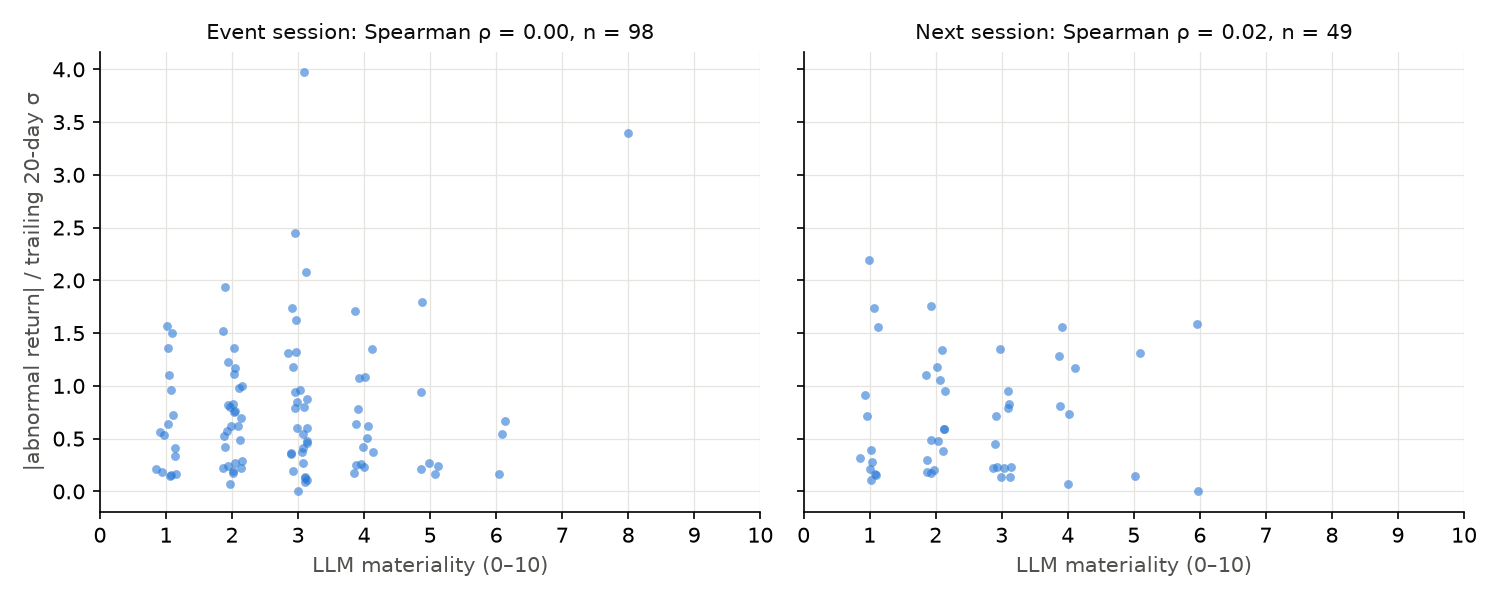
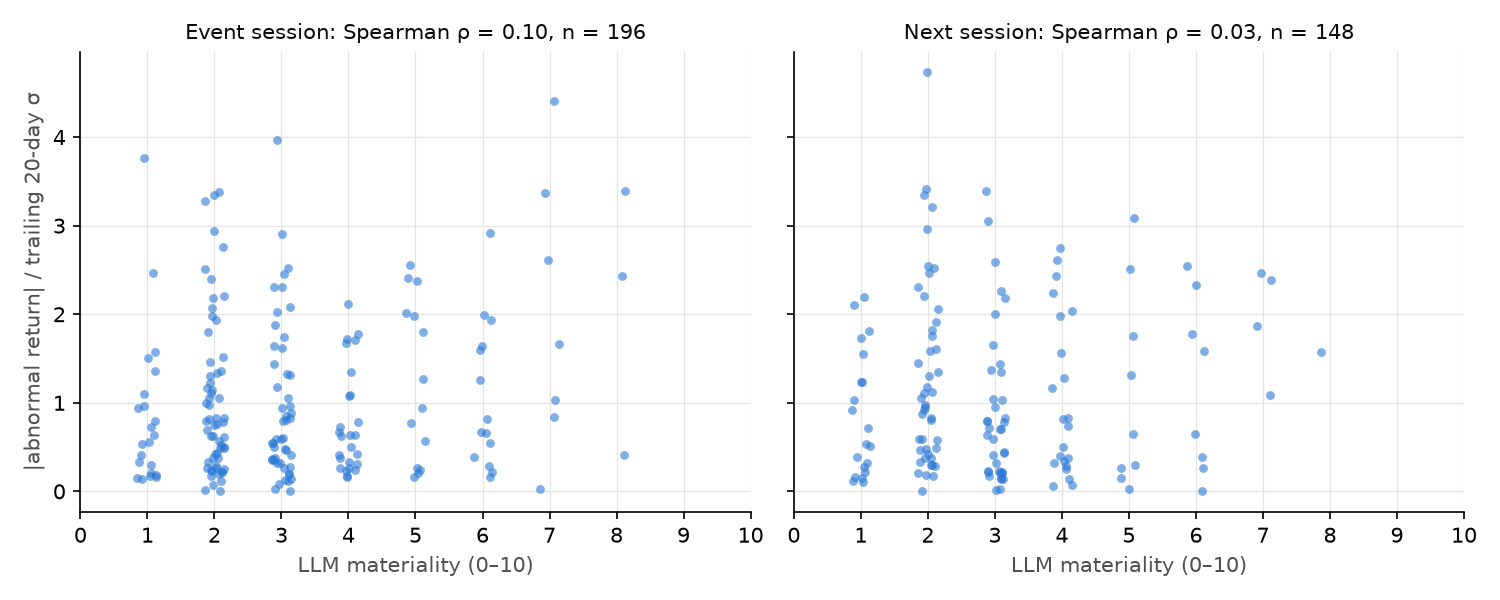
M5 (pass 2): refresh eval results with ~2 days of data
Rerun export and eval on data polled 2026-10-20 23:21 to 2026-10-23
04:22 UTC: 2,412 scored stories, 196 event-session ticker-sessions.
README now reports per-day averages (2 fully covered ET days) and the
updated correlations.

diff --git a/eval/results.md b/eval/results.md
@@ -1,13 +1,13 @@
 # Signal or Noise: eval results
 
-Generated 2026-10-21 20:07 UTC by `eval/eval.py` from `eval/data/` (exported with `eval/export.sh`). Every number below comes from that run; nothing is edited by hand.
+Generated 2026-10-23 04:24 UTC by `eval/eval.py` from `eval/data/` (exported with `eval/export.sh`). Every number below comes from that run; nothing is edited by hand.
 
 ## Data
 
-- **Source: live RSS only** (Yahoo per-ticker + CNBC), polled from 2026-10-20 23:21 UTC to 2026-10-21 19:54 UTC. No historical dataset is used, so there are no historical-dataset results to report separately.
+- **Source: live RSS only** (Yahoo per-ticker + CNBC), polled from 2026-10-20 23:21 UTC to 2026-10-23 04:22 UTC. No historical dataset is used, so there are no historical-dataset results to report separately.
 - Scored by `claude-haiku-5-5` (prompt `v1`). Live headlines are only a clean test if they were published after the model's training cutoff; otherwise the model may already know what happened.
-- 1346 scored stories, 687 with a primary ticker, collapsed to 98 ticker-sessions whose event session has closed; 98 of those have the 20-session volatility history needed to normalize.
-- Prices: adjusted daily closes from yfinance, through 2026-10-20.
+- 2412 scored stories, 1201 with a primary ticker, collapsed to 196 ticker-sessions whose event session has closed; 196 of those have the 20-session volatility history needed to normalize.
+- Prices: adjusted daily closes from yfinance, through 2026-10-22.
 
 ## Method
 
@@ -19,56 +19,56 @@ Generated 2026-10-21 20:07 UTC by `eval/eval.py` from `eval/data/` (exported wit
 
 ## Event session
 
-n = 98 ticker-sessions.
+n = 196 ticker-sessions.
 
 | Predictor of \|normalized abnormal return\| | Spearman ρ | 95% CI | p |
 |---|---|---|---|
-| Materiality (LLM) | -0.003 | [-0.205, 0.195] | 0.980 |
-| Headline count (baseline a) | -0.265 | [-0.471, -0.066] | 0.008 |
-| Earnings keyword (baseline b) | 0.019 | [-0.185, 0.214] | 0.851 |
+| Materiality (LLM) | 0.103 | [-0.047, 0.245] | 0.152 |
+| Headline count (baseline a) | 0.089 | [-0.062, 0.238] | 0.213 |
+| Earnings keyword (baseline b) | 0.217 | [0.075, 0.356] | 0.002 |
 
 Materiality CI includes 0: no evidence that materiality predicts move size.
 
 | LLM − baseline | Δρ | 95% CI | LLM beats it? |
 |---|---|---|---|
-| vs Headline count (baseline a) | 0.263 | [0.060, 0.464] | Δρ > 0 only because the baseline is lower; materiality's own CI includes 0 |
-| vs Earnings keyword (baseline b) | -0.022 | [-0.273, 0.228] | not shown (CI includes 0) |
+| vs Headline count (baseline a) | 0.013 | [-0.115, 0.137] | not shown (CI includes 0) |
+| vs Earnings keyword (baseline b) | -0.115 | [-0.281, 0.043] | not shown (CI includes 0) |
 
 | Materiality quintile | n | Materiality range | Mean \|normalized abnormal return\| |
 |---|---|---|---|
-| Top | 20 | 4–8 | 0.77 |
-| Bottom | 20 | 1–2 | 0.66 |
+| Top | 39 | 4–8 | 1.37 |
+| Bottom | 40 | 1–2 | 0.92 |
 
-**Direction hit rate** (top story's direction ≠ 0): 14/36 = 38.9%, Wilson 95% CI [24.8%, 55.1%], binomial p = 0.243 vs 50%.
+**Direction hit rate** (top story's direction ≠ 0): 43/84 = 51.2%, Wilson 95% CI [40.7%, 61.6%], binomial p = 0.913 vs 50%.
 
 ## Next session
 
-n = 49 ticker-sessions.
+n = 148 ticker-sessions.
 
 | Predictor of \|normalized abnormal return\| | Spearman ρ | 95% CI | p |
 |---|---|---|---|
-| Materiality (LLM) | 0.019 | [-0.314, 0.334] | 0.899 |
-| Headline count (baseline a) | -0.210 | [-0.484, 0.079] | 0.148 |
-| Earnings keyword (baseline b) | 0.029 | [-0.280, 0.334] | 0.845 |
+| Materiality (LLM) | 0.026 | [-0.142, 0.199] | 0.750 |
+| Headline count (baseline a) | 0.099 | [-0.057, 0.249] | 0.229 |
+| Earnings keyword (baseline b) | 0.196 | [0.028, 0.348] | 0.017 |
 
 Materiality CI includes 0: no evidence that materiality predicts move size.
 
 | LLM − baseline | Δρ | 95% CI | LLM beats it? |
 |---|---|---|---|
-| vs Headline count (baseline a) | 0.228 | [-0.116, 0.555] | not shown (CI includes 0) |
-| vs Earnings keyword (baseline b) | -0.010 | [-0.339, 0.338] | not shown (CI includes 0) |
+| vs Headline count (baseline a) | -0.073 | [-0.220, 0.078] | not shown (CI includes 0) |
+| vs Earnings keyword (baseline b) | -0.170 | [-0.354, 0.022] | not shown (CI includes 0) |
 
 | Materiality quintile | n | Materiality range | Mean \|normalized abnormal return\| |
 |---|---|---|---|
-| Top | 10 | 4–6 | 0.87 |
-| Bottom | 10 | 1–1 | 0.82 |
+| Top | 30 | 4–8 | 1.16 |
+| Bottom | 30 | 1–2 | 1.01 |
 
-**Direction hit rate** (top story's direction ≠ 0): 8/14 = 57.1%, Wilson 95% CI [32.6%, 78.6%], binomial p = 0.791 vs 50%.
+**Direction hit rate** (top story's direction ≠ 0): 25/56 = 44.6%, Wilson 95% CI [32.4%, 57.6%], binomial p = 0.504 vs 50%.
 
 ## Pipeline
 
-- 3224 feed polls, 1 failed. LLM cost 0.3516 USD in total; p50 latency per (non-cached) LLM call 1800 ms.
-- No fully covered day yet, so no per-day averages.
+- 6845 feed polls, 9 failed. LLM cost 0.6288 USD in total; p50 latency per (non-cached) LLM call 1800 ms.
+- Fully covered days: 2; per day on average 994 headlines → 837 stories, 0.2847 USD.
 
 | ET date | Coverage | Headlines | Stories | LLM cost (USD) |
 |---|---|---|---|---|
@@ -78,8 +78,10 @@ Materiality CI includes 0: no evidence that materiality predicts move size.
 | 2026-10-17 | partial | 8 | 8 | 0.0000 |
 | 2026-10-18 | partial | 8 | 8 | 0.0000 |
 | 2026-10-19 | partial | 179 | 174 | 0.0000 |
-| 2026-10-20 | partial | 551 | 505 | 0.0582 |
-| 2026-10-21 | partial | 736 | 612 | 0.2934 |
+| 2026-10-20 | partial | 552 | 506 | 0.0582 |
+| 2026-10-21 | full | 991 | 820 | 0.3421 |
+| 2026-10-22 | full | 998 | 854 | 0.2272 |
+| 2026-10-23 | partial | 1 | 0 | 0.0013 |
 
 Partial days only contain what was still in the feeds at the first poll, or what was collected before the last poll. Cost is by the day the score was made, so the first day includes the backfill.
 
@@ -87,5 +89,14 @@ Partial days only contain what was still in the feeds at the first poll, or what
 
 - 2026-10-21 00:26 → 2026-10-21 02:54 UTC (2.5 h without a poll)
 - 2026-10-21 14:42 → 2026-10-21 18:03 UTC (3.4 h without a poll)
+- 2026-10-21 21:28 → 2026-10-21 23:18 UTC (1.8 h without a poll)
+- 2026-10-21 23:27 → 2026-10-22 02:37 UTC (3.2 h without a poll)
+- 2026-10-22 07:53 → 2026-10-22 08:52 UTC (1.0 h without a poll)
+- 2026-10-22 09:38 → 2026-10-22 10:19 UTC (0.7 h without a poll)
+- 2026-10-22 12:36 → 2026-10-22 13:12 UTC (0.6 h without a poll)
+- 2026-10-22 16:16 → 2026-10-22 16:49 UTC (0.5 h without a poll)
+- 2026-10-22 18:03 → 2026-10-22 23:49 UTC (5.8 h without a poll)
+- 2026-10-23 01:05 → 2026-10-23 02:35 UTC (1.5 h without a poll)
+- 2026-10-23 02:51 → 2026-10-23 03:36 UTC (0.8 h without a poll)
 
 ![Materiality vs move size](scatter.png)

diff --git a/README.md b/README.md
@@ -123,28 +123,28 @@ eval/.venv/bin/python -m unittest discover eval   # tests for session mapping an
 
 ## Results
 
-**Preliminary.** These come from the eval run of 2026-10-21 (data polled 2026-10-20 23:21 to 2026-10-21 19:54 UTC). They will be replaced after 1–2 weeks of collection. Full report: [eval/results.md](eval/results.md).
+**Preliminary.** These come from the eval run of 2026-10-23 (data polled 2026-10-20 23:21 to 2026-10-23 04:22 UTC). They will be replaced after 1–2 weeks of collection. Full report: [eval/results.md](eval/results.md).
 
 **Pipeline**
 
 | | |
 |---|---|
-| Feed polls | 3,224 (1 failed) |
-| Headlines stored | 1,528 |
-| Stories scored | 1,346 |
-| LLM cost, total | $0.3516 |
+| Feed polls | 6,845 (9 failed) |
+| Headlines stored | 2,783 |
+| Stories scored | 2,412 |
+| LLM cost, total | $0.6288 |
 | p50 latency per LLM call | 1,800 ms |
 
-No ET day was fully covered by collection yet, so per-day averages (headlines/day, stories/day, cost/day) aren't reported.
+Averaged over the 2 fully covered ET days: 994 headlines/day → 837 stories/day, $0.2847/day in LLM cost.
 
 **Does materiality predict move size?** Spearman ρ between LLM materiality and |abnormal return| / trailing 20-day σ, one observation per ticker × session, with bootstrap 95% CIs:
 
 | Window | n | Materiality (LLM) | Headline count (baseline a) | Earnings keyword (baseline b) |
 |---|---|---|---|---|
-| Event session | 98 | −0.003 [−0.205, 0.195] | −0.265 [−0.471, −0.066] | 0.019 [−0.185, 0.214] |
-| Next session | 49 | 0.019 [−0.314, 0.334] | −0.210 [−0.484, 0.079] | 0.029 [−0.280, 0.334] |
+| Event session | 196 | 0.103 [−0.047, 0.245] | 0.089 [−0.062, 0.238] | 0.217 [0.075, 0.356] |
+| Next session | 148 | 0.026 [−0.142, 0.199] | 0.099 [−0.057, 0.249] | 0.196 [0.028, 0.348] |
 
-So far there is **no evidence that materiality predicts move size**, and it doesn't beat the earnings-keyword baseline. Direction hit rate (stories with a nonzero direction call): 14/36 in the event session and 8/14 in the next session, neither distinguishable from 50%. At this n the intervals are wide: materiality's event-session CI runs from −0.205 to 0.195.
+So far there is **no evidence that materiality predicts move size**: both of its CIs include 0. The earnings-keyword baseline is the only predictor whose CI excludes 0 in both windows, and it has the higher point estimate, though the LLM − keyword difference isn't significant either way (event session Δρ −0.115 [−0.281, 0.043]). Direction hit rate (stories with a nonzero direction call): 43/84 (51.2%) in the event session and 25/56 (44.6%) in the next session, neither distinguishable from 50%.
 
 ![Materiality vs move size](eval/scatter.png)
 
@@ -152,12 +152,12 @@ So far there is **no evidence that materiality predicts move size**, and it does
 
 ## Limitations
 
-- **Small sample.** About one day of collection so far. Even with two weeks (a few hundred ticker-sessions), only correlations of roughly 0.1–0.15 or larger are detectable.
+- **Small sample.** About two days of collection so far. Even with two weeks (a few hundred ticker-sessions), only correlations of roughly 0.1–0.15 or larger are detectable.
 - **Feeds roll over fast.** Each Yahoo feed holds only its newest ~13–20 items, which can be under an hour for NVDA during market hours. Any collection gap (laptop asleep, process stopped) loses headlines, mostly for the busiest tickers. Every gap is logged in `PollRuns` and listed in `eval/results.md`.
 - **Clustering is close to one headline per story.** Title-word overlap rarely groups rewordings of the same event. The eval sidesteps this by collapsing to one ticker × session. The digest merges stories by ticker + event type, so one row can mix unrelated events: the summary comes from the top story, and the links come from all merged stories.
 - **The event-session window starts before the news.** For headlines during market hours, the window runs from the previous close, so it includes moves that may have caused the headline. The next-session window is the clean predictive test.
 - **Daily closes only.** No intraday prices, and every session is assumed to close at 4pm ET (half-days aren't handled).
-- **Many stories have no primary ticker** (macro and general market news): only 687 of 1,346 scored stories have one. The rest are excluded from the eval.
+- **Many stories have no primary ticker** (macro and general market news): only 1,201 of 2,412 scored stories have one. The rest are excluded from the eval.
 - **Materiality bunches at 1–3,** so the top and bottom quintiles break ties by ticker, then session.
 - **Baselines are deliberately simple.** The earnings baseline is a fixed keyword regex, not a classifier.
 - **One model and one prompt version** (`claude-haiku-5-5`, prompt `v1`). The prompt was never tuned against returns, which avoids overfitting to the eval but also leaves performance on the table.
